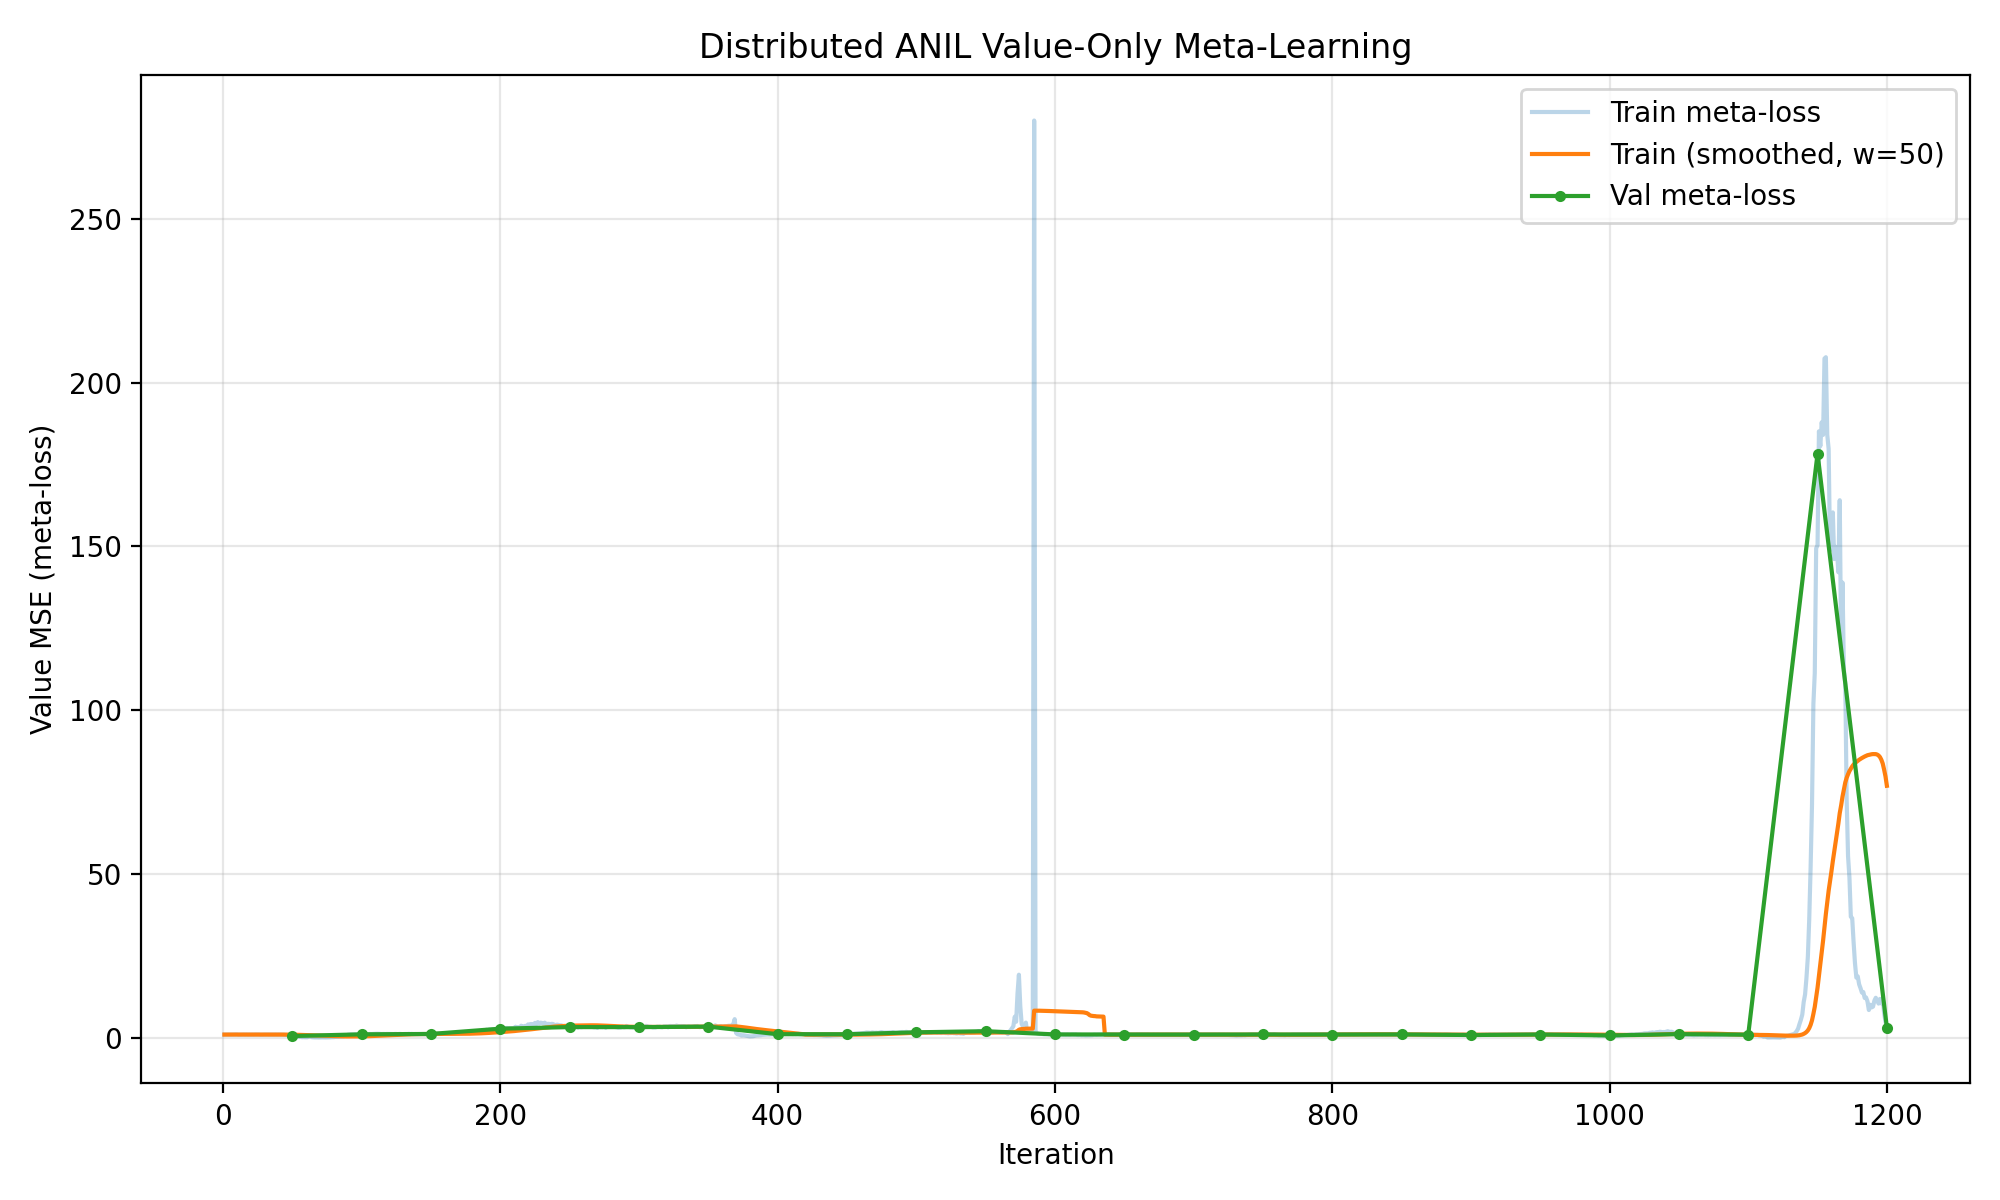
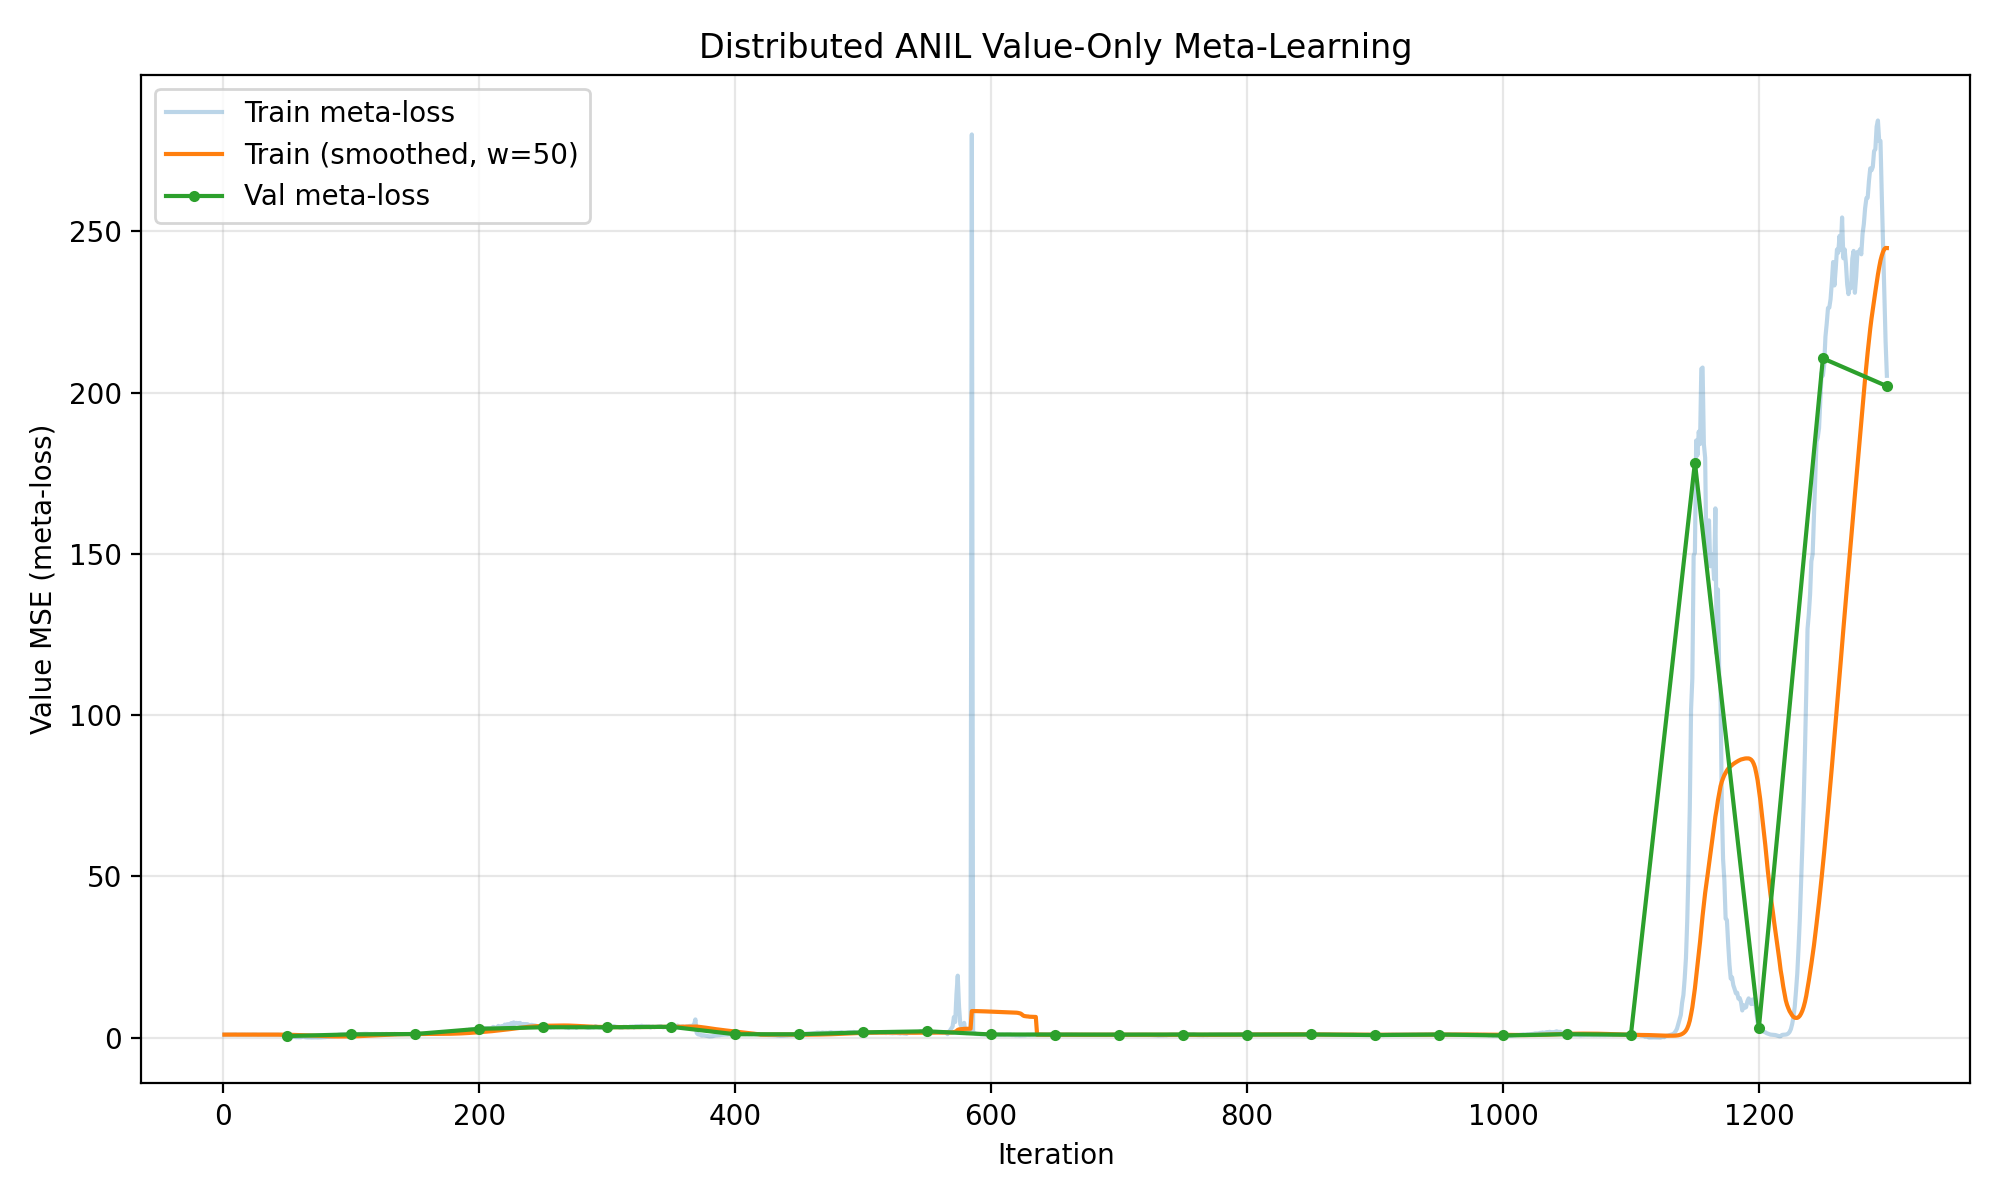
results: auto-update 2026-04-11 03:00

diff --git a/RESULTS.md b/RESULTS.md
@@ -35,12 +35,12 @@ value_hidden=64
 ```
 
 ## latest.pt
-- Iteration: 1200
+- Iteration: 1300
 - Best val meta-loss: 0.4949
-- Latest train meta-loss: 3.4110
-- Train loss range (last 50): 3.4110 – 207.7729
-- Latest val meta-loss: 3.0764
-- Val loss range (last 10): 0.6860 – 178.3184
+- Latest train meta-loss: 205.2226
+- Train loss range (last 50): 205.2226 – 284.3658
+- Latest val meta-loss: 202.0082
+- Val loss range (last 10): 0.6860 – 210.6186
 
 ## best.pt
 - Iteration: 50
@@ -53,36 +53,36 @@ value_hidden=64
 ## Loss Curve
 ![Loss](runs/game_task_v1/loss.png)
 
-## Console Log (last 30 of 1342 lines)
+## Console Log (last 30 of 1469 lines)
 ```
-[it  1179] meta_loss=18.7064 | 27858ms | 34117s
-[it  1180] meta_loss=16.2807 | 28533ms | 34146s
-[it  1181] meta_loss=15.1095 | 28342ms | 34174s
-[it  1182] meta_loss=13.7711 | 31901ms | 34206s
-[it  1183] meta_loss=13.9282 | 28419ms | 34234s
-[it  1184] meta_loss=12.1189 | 28546ms | 34263s
-[it  1185] meta_loss=12.2577 | 28407ms | 34291s
-[it  1186] meta_loss=11.0749 | 28463ms | 34320s
-[it  1187] meta_loss=8.4435 | 28544ms | 34348s
-[it  1188] meta_loss=10.0437 | 29567ms | 34378s
-[it  1189] meta_loss=9.2483 | 28472ms | 34406s
-[it  1190] meta_loss=9.4797 | 28237ms | 34434s
-[it  1191] meta_loss=11.3040 | 28738ms | 34463s
-[it  1192] meta_loss=12.1796 | 28223ms | 34491s
-[it  1193] meta_loss=11.3274 | 28402ms | 34520s
-[it  1194] meta_loss=10.4071 | 28642ms | 34548s
-[it  1195] meta_loss=11.8346 | 28421ms | 34577s
-[it  1196] meta_loss=10.4745 | 27861ms | 34605s
-[it  1197] meta_loss=12.0865 | 28465ms | 34633s
-[it  1198] meta_loss=7.5379 | 28426ms | 34662s
-[it  1199] meta_loss=4.8378 | 28679ms | 34690s
-[it  1200] meta_loss=3.4110 | 28513ms | 34719s
-  [VAL] meta_loss=3.0764 (best=0.4949)
-[it  1201] meta_loss=2.8713 | 28415ms | 34775s
-[it  1202] meta_loss=2.4307 | 28370ms | 34803s
-[it  1203] meta_loss=2.1321 | 28505ms | 34831s
-[it  1204] meta_loss=1.7763 | 31668ms | 34863s
-[it  1205] meta_loss=1.6786 | 28543ms | 34892s
-[it  1206] meta_loss=1.3984 | 28500ms | 34920s
-[it  1207] meta_loss=1.2465 | 28575ms | 34949s
+[it  1303] meta_loss=194.8135 | 28331ms | 37732s
+[it  1304] meta_loss=193.8699 | 28683ms | 37761s
+[it  1305] meta_loss=190.2187 | 28474ms | 37789s
+[it  1306] meta_loss=186.8876 | 28456ms | 37817s
+[it  1307] meta_loss=186.1749 | 27758ms | 37845s
+[it  1308] meta_loss=185.5964 | 27828ms | 37873s
+[it  1309] meta_loss=186.5468 | 28417ms | 37901s
+[it  1310] meta_loss=187.7093 | 28403ms | 37930s
+[it  1311] meta_loss=185.2330 | 27652ms | 37958s
+[it  1312] meta_loss=186.2227 | 28528ms | 37986s
+[it  1313] meta_loss=181.1278 | 28387ms | 38014s
+[it  1314] meta_loss=184.8105 | 28295ms | 38043s
+[it  1315] meta_loss=181.5400 | 28456ms | 38071s
+[it  1316] meta_loss=179.4102 | 28424ms | 38100s
+[it  1317] meta_loss=179.0476 | 28241ms | 38128s
+[it  1318] meta_loss=179.1138 | 28600ms | 38156s
+[it  1319] meta_loss=178.2998 | 28764ms | 38185s
+[it  1320] meta_loss=179.0792 | 28482ms | 38214s
+[it  1321] meta_loss=180.6423 | 28513ms | 38242s
+[it  1322] meta_loss=175.2314 | 28161ms | 38270s
+[it  1323] meta_loss=178.6195 | 28604ms | 38299s
+[it  1324] meta_loss=175.8098 | 28525ms | 38328s
+[it  1325] meta_loss=176.7320 | 28220ms | 38356s
+[it  1326] meta_loss=173.5028 | 28508ms | 38384s
+[it  1327] meta_loss=179.8909 | 28468ms | 38413s
+[it  1328] meta_loss=176.1572 | 28403ms | 38441s
+[it  1329] meta_loss=177.7367 | 28441ms | 38470s
+[it  1330] meta_loss=179.5979 | 28418ms | 38498s
+[it  1331] meta_loss=180.7185 | 28690ms | 38527s
+[it  1332] meta_loss=175.4451 | 28347ms | 38555s
 ```
